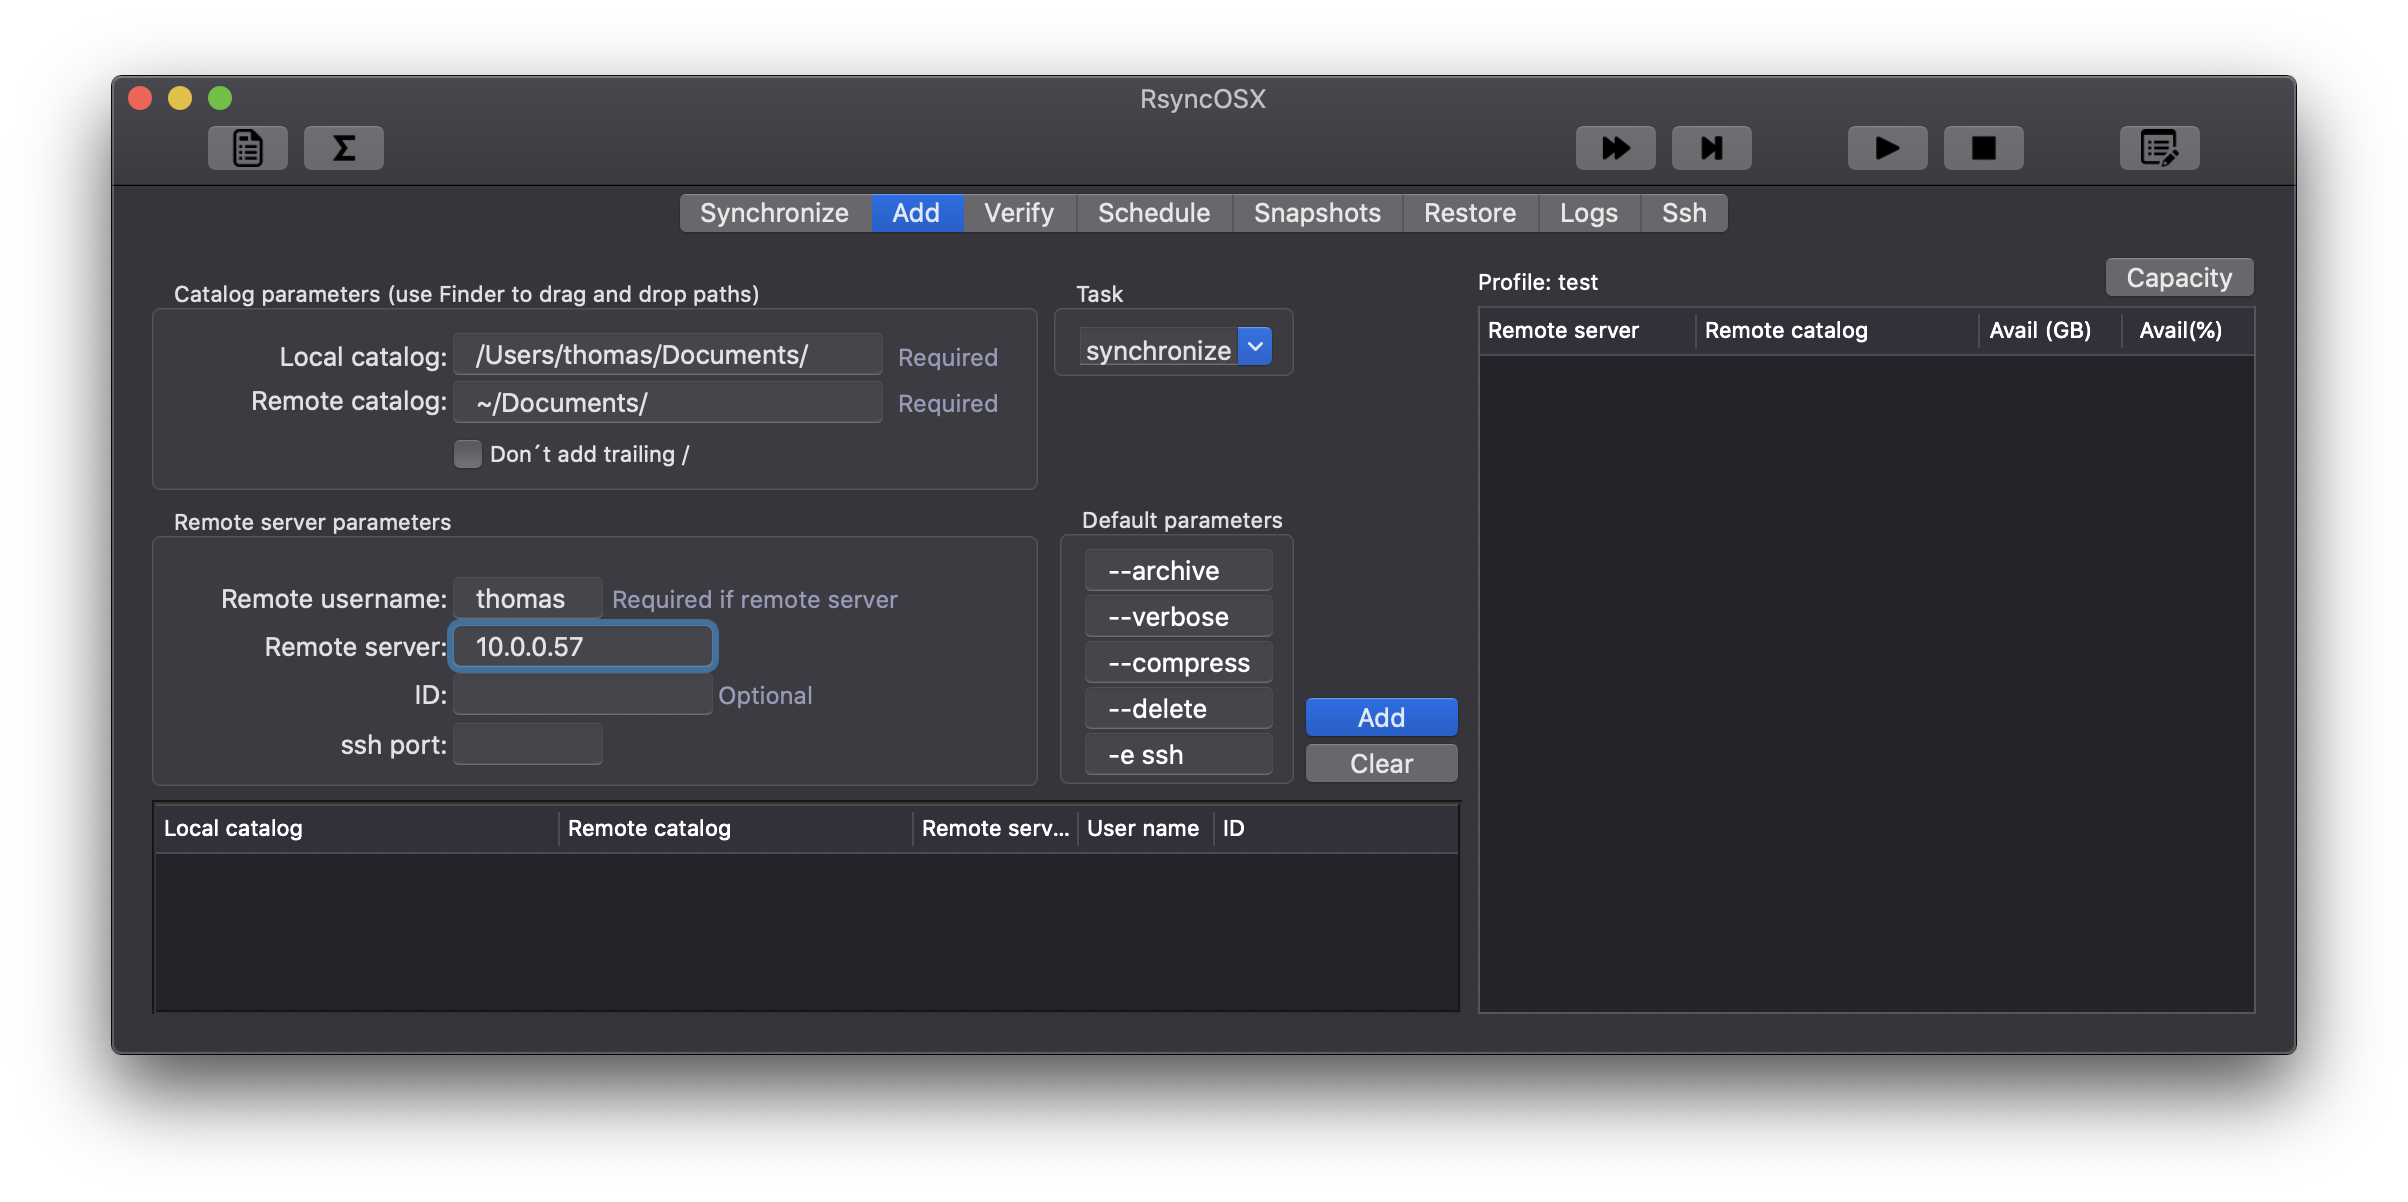
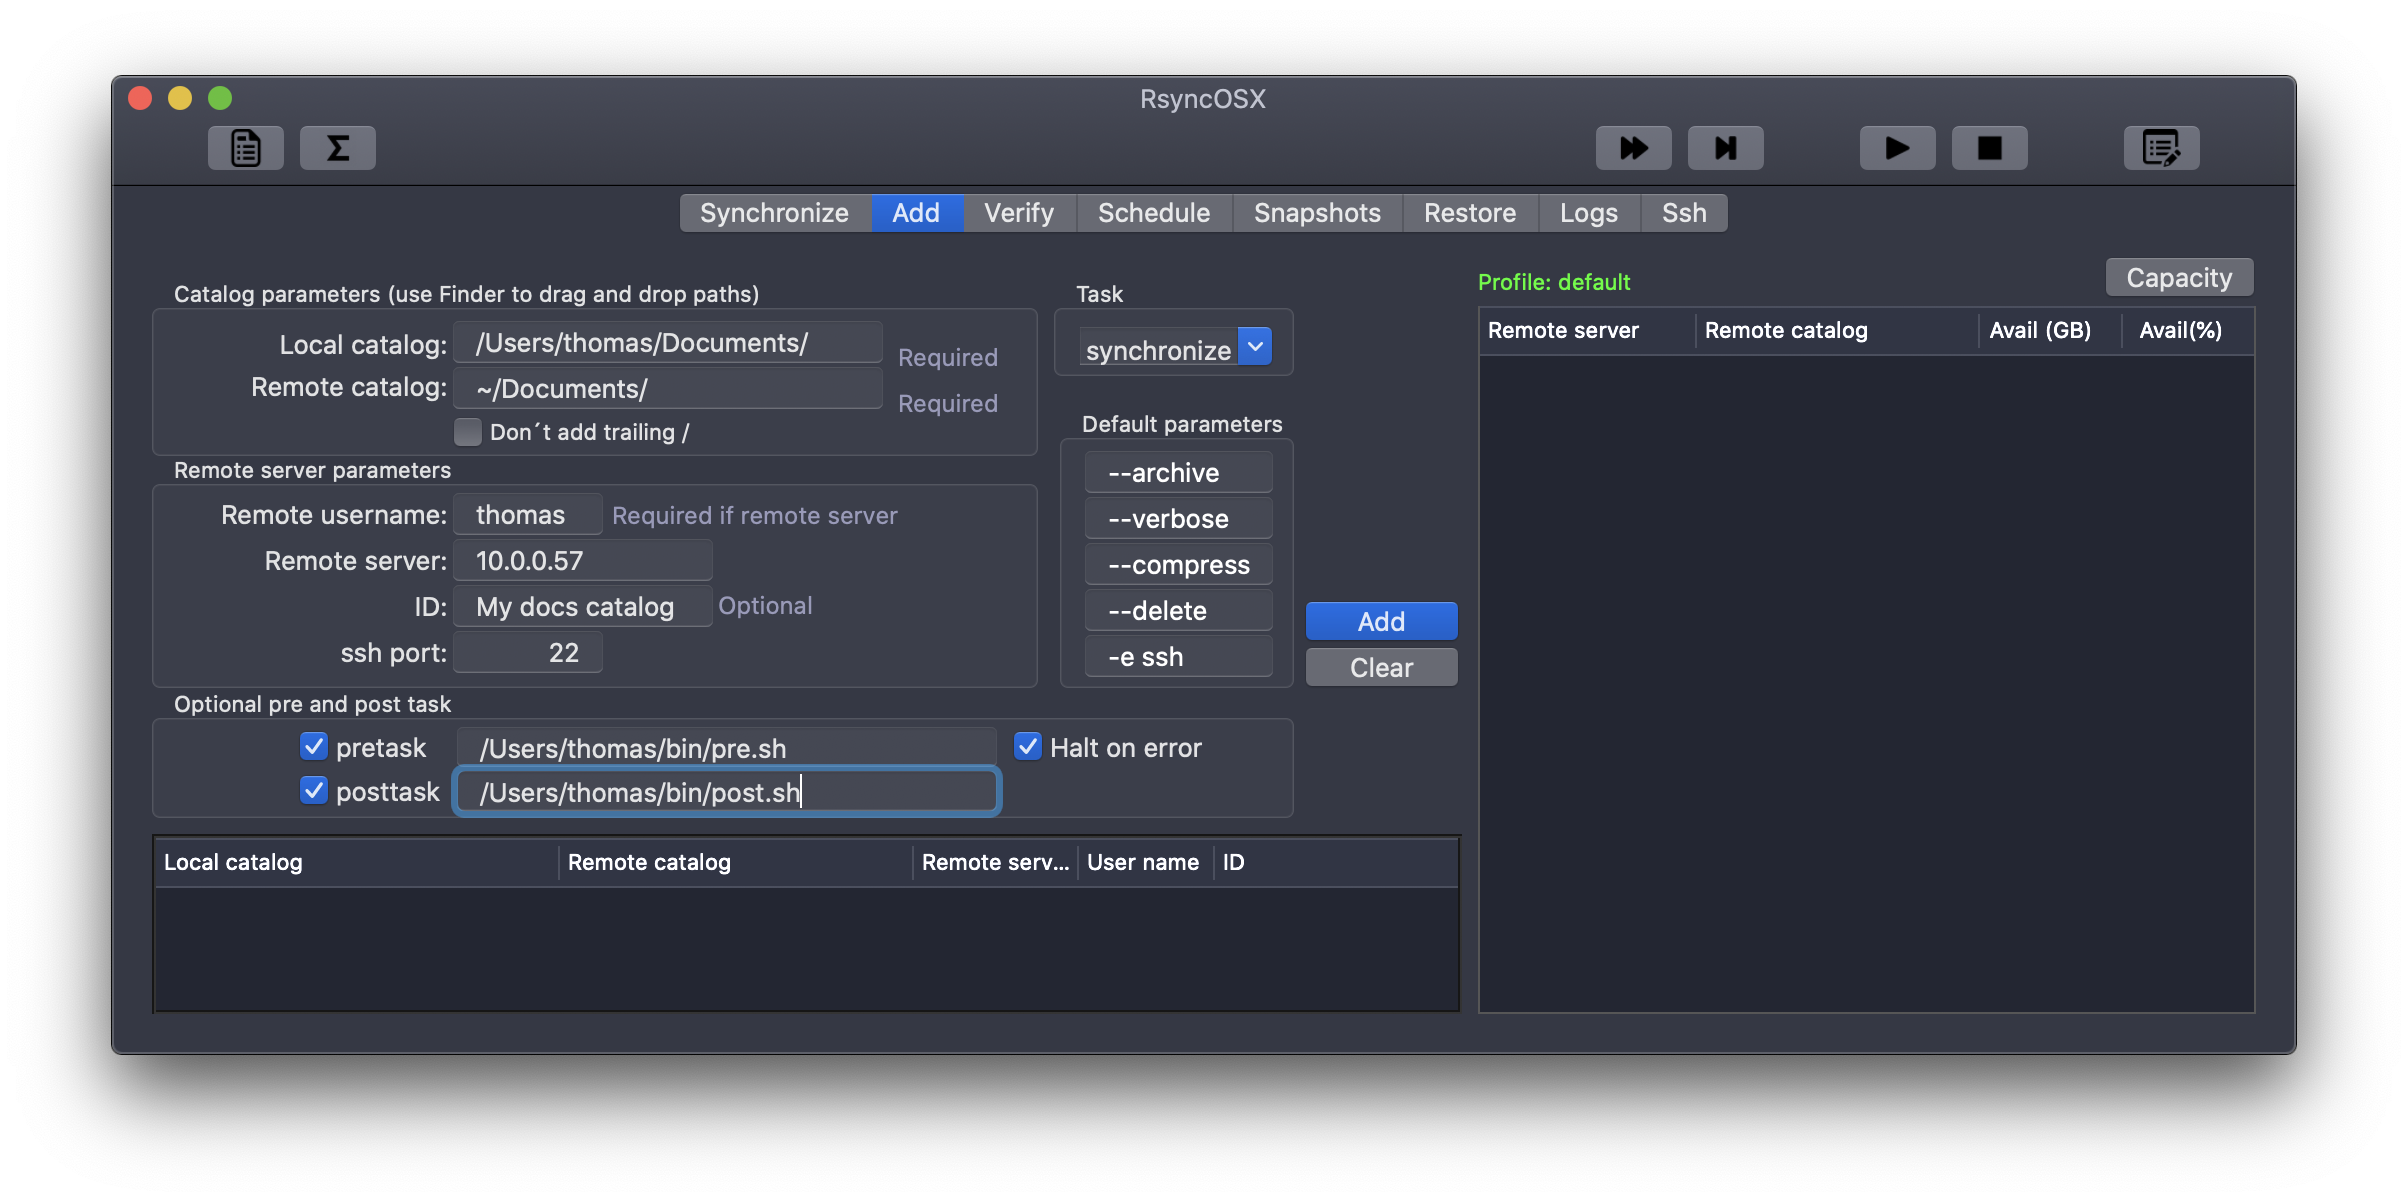
update

diff --git a/content/post/AddConfigurations.md b/content/post/AddConfigurations.md
@@ -5,6 +5,7 @@ title =  "Add configurations"
 description = "How to enter synchronize tasks into RsyncOSX."
 tags = ["add configurations"]
 categories = ["configurations"]
+lastmod = "2020-07-16"
 +++
 Adding a configuration is easy. A configuration require minimum a **local catalog** and a **remote catalog**. After entering information about a configuration select the Add button to add it to RsyncOSX. Continue adding new configurations until completed and configurations are saved to permanent storage after each entry.
 
@@ -23,17 +24,24 @@ Local catalog and Remote catalog are added either by using drag and drop from fi
 The Capacity button query remote storage in all configurations about available storage space. Only valid for remote hosts.
 
 ![](/images/RsyncOSX/master/add/add.png)
-
+### Catalog parameters
 - **Local catalog**: required field `/Users/thomas/Documents/` my Documents catalog in my home catalog
 - **Remote catalog**: required field `~/Documents/`
   - the backup catalog for user thomas. The ~ is expanded as the home catalog with full path by the remote operating system. The remote catalog might also be added by full path, depends where the backup catalog is placed on remote server
   - the backup catalog might also be a local catalog on a local attached disk
 - **Dont´t add trailing**: `/` default a trailing / added to both source and destination
+### Remote server parameters
 - **Remote username**: `thomas` username for login to remote server
 - **Remote server**: `10.0.0.57` either server name or IP-address for remote server
-- **ID**: `informal tag` for the configuration
+- **ID**: `My docs catalog` informal tag for the configuration
 - **ssh port**: if ssh communicates through other than standard port it must be set here, port `22` is default port for ssh and not require to set
+### Task
 - **Type**: there are four types of tasks, `synchronize` which is standard, `snapshots`, `syncremote` and `single file`.
-- **rsync daemon**: `::` enabling rsync daemon puts a double colon `::` in address parameter to rsync. It forces rsync to use the rsync daemon remote. There are [two possible setup for using the rsync daemon](/post/rsyncdaemon/). Utilizing a rsync daemon setup does **not** encrypt the transfer between client and server. To encrypt the transfer require tunneling traffic in a ssh protocol. [See how to setup ssh passwordless logins](/post/remotelogins/).
+### Optional pre and post task
+- **pretask**: attach optional pre shell script to the synchronize command. The `pre.sh`is executed ahead of the synchronize command, the `post.sh` after the synchronize command. The scripts are normal shell scripts as if executed from command line.
+  - switch execute shell script on/off
+- **posttask**: attach optional post shell script to the synchronize command. The `post.sh` is executed after the synchronize command.
+  - switch execute shell script on/off
+- **Halt on error**: if the phrase "error" occurs in the output from the `pre.sh` command, if on the execution of synchronize command is aborted.  
 
 Select the Add button when completed and configuration is added to RsyncOSX. RsyncOSX adds a trailing / character to both local and remote volume. After selecting the Add button another configuration might be added. Any changes (edit or delete) to configurations are done from the Synchronize view. Additional parameters to rsync might be added utilizing the Parameter button.

diff --git a/content/post/Userparameters.md b/content/post/Userparameters.md
@@ -5,23 +5,27 @@ title =  "User selected rsync parameters"
 tags = ["user rsync parameters"]
 categories = ["rsyncparameters"]
 description = "RsyncOSX allows the user to set parameters to rsync."
+lastmod = "2020-07-16"
 +++
-Rsync utilizes a ton of parameters. RsyncOSX has only presented a few. Parameters are normally constructed as:
+See also [default parameters](/post/rsyncparameters) for info about default parameters and the ssh parameters (local). Rsync utilizes a ton of parameters. Parameters are normally constructed as:
 
 - --parameter=value `--exclude-from=/Volumes/home/user/exclude-list.txt`
 - --parameter `--stats`, `--dry-run`
 
 For a full list of parameters to rsync please see the [rsync docs](https://download.samba.org/pub/rsync/rsync.html).
 
-## Backup catalog by parameter to rsync
+## Add parameters
 
 You can instruct rsync to save changed and deleted files in a separate backup catalog ahead of the change. This feature is utilized by setting the following parameters:
 
 - `--backup` parameter instructs rsync to save changed files
 - `--backup-dir` parameter where to save changed or deleted files before rsync synchronize source and destination
 	- RsyncOSX does suggest a value for the `--backup-dir` but you might set it to whatever you want
+- **rsync daemon**: `::` enabling rsync daemon puts a double colon `::` in address parameter to rsync. It forces rsync to use the rsync daemon remote.
 
-![](/images/RsyncOSX/master/rsync/rsync.png)
+There are [two possible setup for using the rsync daemon](/post/rsyncdaemon/). Utilizing a rsync daemon setup does **not** encrypt the transfer between client and server. To encrypt the transfer require tunneling traffic in a ssh protocol, [see how to setup ssh passwordless logins](/post/remotelogins/).
+
+![](/images/RsyncOSX/master/userparameters/userparameters.png)
 
 ## Suffix on changed and deleted files
 
@@ -49,7 +53,5 @@ The user can set own parameters by using user in dropdown menu. Preset parameter
 RsyncOSX passes whatever set by user to rsync, parameters must be either:
 - `--parameter=value` or
 - `--parameter`
-
-![](/images/RsyncOSX/master/rsync/parameters.png)
 
 `delete` - delete the parameterdeletes the parameter when OK button is selected

diff --git a/content/post/SingleTask.md b/content/post/SingleTask.md
@@ -5,14 +5,15 @@ title =  "Executing single tasks"
 tags = ["single task","edit tasks"]
 categories = ["synchronize"]
 description = "Execute single task, first a verify run and then the real run."
+lastmod = "2020-07-16"
 +++
 In Synchronize view (which is the opening view) tasks can be executed as singletasks. Execute single tasks requires a couple of double clicks: one for **estimation** run and the second for **executing** the real task. The output from rsync is presented after each run.
 
 ![](/images/RsyncOSX/master/singletask/singletask.png)
 
 There are three options for editing after selecting a task in row:
-- edit task
-- parameters (to rsync, see [parameters](/post/userparameters/))
+- edit
+- params (to rsync)
 - delete task
 
 After selecting a row choosing one of the above pops up a new view according to selection. Select Edit task to editing basic information about task. Select Delete task to delete the selected row (task).
@@ -24,3 +25,13 @@ Execute single tasks is a two step operation, one for estimation (dry-run) and o
 The actual rsync command to be executed is shown below right corner in view. It is only the estimation command which is shown. You might copy the command and paste it into a terminal for execution. You have to delete the --dry-run parameter to execute the real task.
 
 If Abort is pressed any executing task is aborted.
+
+## Edit and params
+
+The edit enables changing the basic info about the task.
+
+![](/images/RsyncOSX/master/singletask/edit.png)
+
+The params enables access to add and change parameters to rsync. See more info about [default parameters](/post/rsyncparameters) and [user selected parameters](/post/userparameters/).
+
+![](/images/RsyncOSX/master/userparameters/userparameters.png)

diff --git a/content/post/RsyncParameters.md b/content/post/RsyncParameters.md
@@ -5,6 +5,7 @@ title =  "RsyncOSX default parameters"
 tags = ["default rsync parameters"]
 categories = ["rsyncparameters"]
 description = "There are som default parameters to rsync."
+lastmod = "2020-07-16"
 +++
 RsyncOSX implements default parameters which are working fine for simple synchronize and restore tasks. The actual parameters used in tasks is depended upon executing rsync over **network connection** or not. Which standard parameters to use is computed during startup of application by reading the configuration file.
 
@@ -27,8 +28,9 @@ The following parameters are for networked tasks only. A networked task is a tas
 - `-e ssh` to ensure rsync tunnels traffic through a ssh-tunnel, applies only if there is a remote server
 - `-e "ssh -p nn"` choose another port nn if standard port 22 is not used, enable by setting port number in parameters, applies only if remote server
 
-## Ssh parameters
+## Ssh parameters (local)
 
-There are two parameters to set for ssh.
+There are two parameters to set for ssh. The local ssh parameters overrides global ssh parameters set in the [user config](/post/userconfiguration/).
+
 - ssh port, set if ssh uses other port than standard port 22
-- the ssh identity file, normally this is either `id_dsa` or `id_rsa`, set name only if other identity file to be used by ssh
+- the ssh keypath and identity file, normally this is `.ssh/id_rsa`, set name only if other keypath and identity file to be used by ssh

diff --git a/content/post/Rsyncdaemon.md b/content/post/Rsyncdaemon.md
@@ -5,6 +5,7 @@ title =  "Rsync daemon setup"
 tags = ["passwordless","rsync daemon"]
 categories = ["remotelogins"]
 description = "How to setup remote logins by rsync daemon. There are also two methods for setting up."
+lastmod = "2020-07-16"
 +++
 It is advised to utilize ssh keys for setup of passwordless logins for rsync. But it is possible to setup rsync and passwordless login by utilize a rsync daemon setup.
 
@@ -35,12 +36,7 @@ The files in [files] is used in the setup.
 ## Prefix username in RsyncOSX
 
 - prefix username `rsync://username`
-
-![rsyncdaemon](/images/RsyncOSX/master/rsyncdaemon/rsyncdaemon1.png)
-
 - add a full path to the file with password. Rsync will complain if it is not chmod 600. Also remove the `-e ssh` parameter.
-
-![rsyncdaemon](/images/RsyncOSX/master/rsyncdaemon/rsyncdaemon2.png)
 
 With the above setup I was able to push and pull data utilizing RsyncOSX and a rsync daemon setup. The following commands for push and pull files are:
 
@@ -60,8 +56,7 @@ Pull files (restore)
 
 By utilizing the double colon `::` is a slightly different syntax which does the same.  
 
-![rsyncdaemon](/images/RsyncOSX/master/rsyncdaemon/rsyncdaemon3.png)
-![rsyncdaemon](/images/RsyncOSX/master/rsyncdaemon/rsyncdaemon4.png)
+![](/images/RsyncOSX/master/userparameters/userparameters.png)
 
 Push files (synchronize or backup)
 ```
